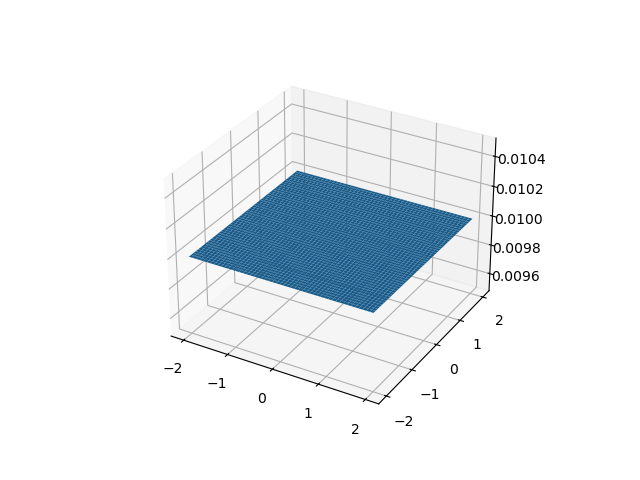
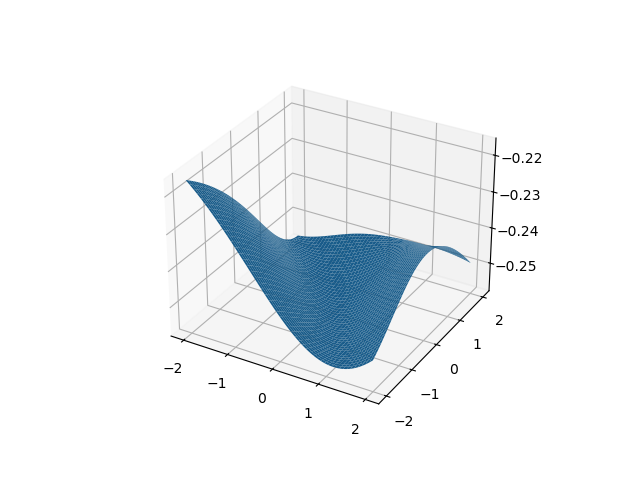
seeded uniform test

diff --git a/networks.py b/networks.py
@@ -17,12 +17,12 @@ class test_NN(nn.Module):
             nn.Linear(8, 1),
             #nn.ReLU()
         )
-        def init_weights(m):
-            if isinstance(m, nn.Linear):
-                #torch.nn.init.xavier_uniform(m.weight)
-                m.weight.data.fill_(0.01)
-                m.bias.data.fill_(0.01)
-        self.linear_tanh_stack.apply(init_weights)
+        #def init_weights(m):
+        #    if isinstance(m, nn.Linear):
+        #        #torch.nn.init.xavier_uniform(m.weight)
+        #        m.weight.data.fill_(0.01)
+        #        m.bias.data.fill_(0.01)
+        #self.linear_tanh_stack.apply(init_weights)
 
     def forward(self, x):
         #x = self.flatten(x)

diff --git a/test.py b/test.py
@@ -9,6 +9,8 @@ from tqdm import tqdm
 import time
 import pickle
 
+torch.manual_seed(0)
+
 device = (
     "cuda"
     if torch.cuda.is_available()
